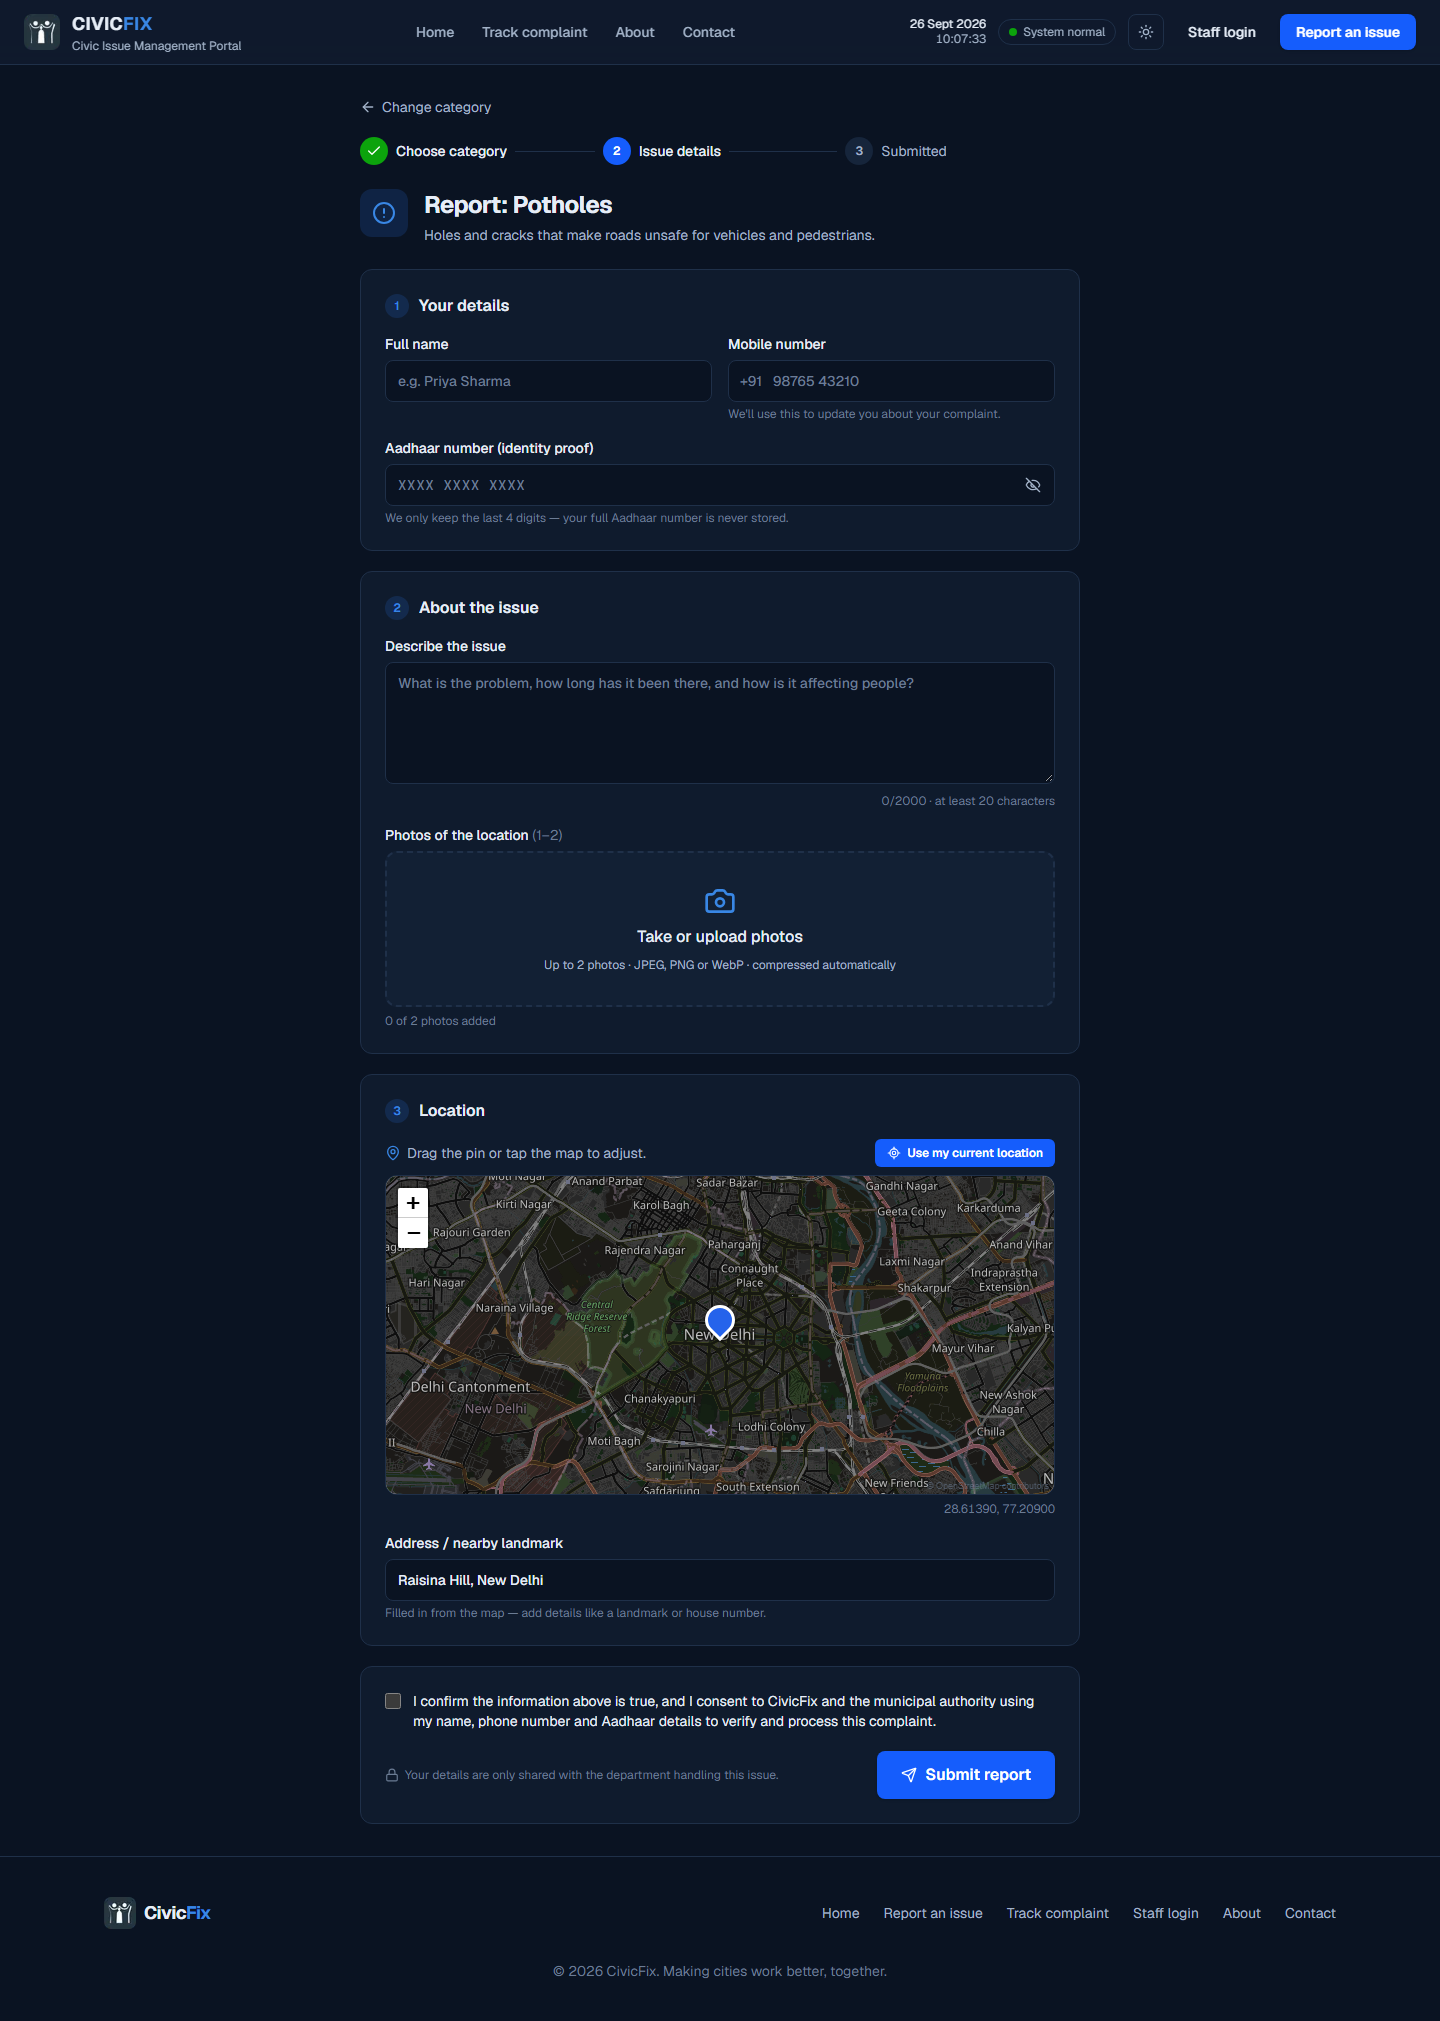
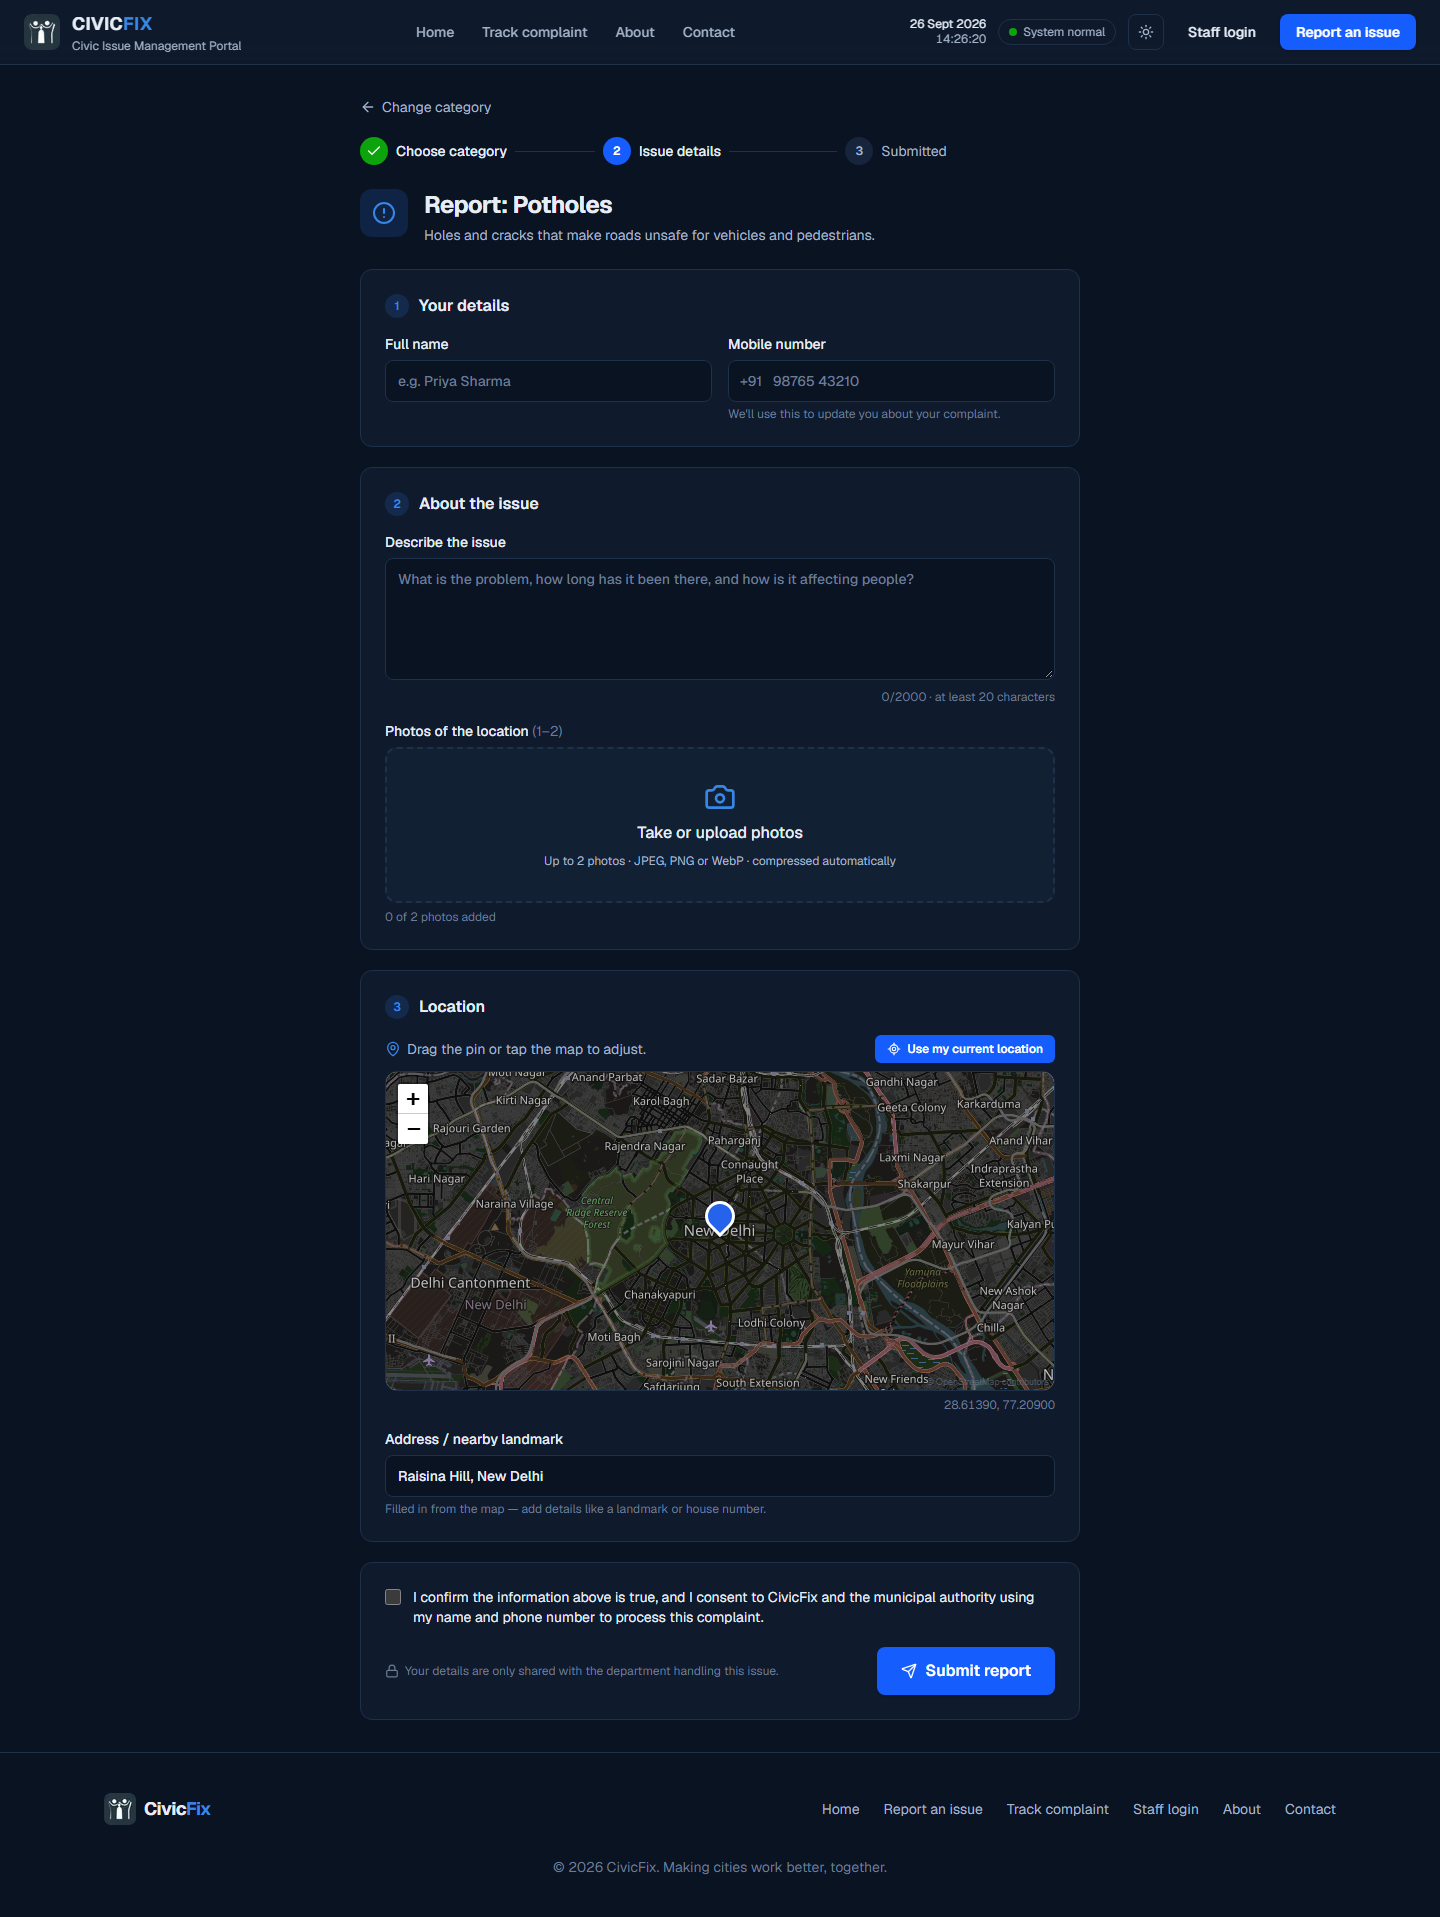
Remove Aadhaar field from the report form and staff view

diff --git a/src/components/report/ReportForm.tsx b/src/components/report/ReportForm.tsx
@@ -1,27 +1,26 @@
 "use client";
 
-import { AlertTriangle, ArrowLeft, Eye, EyeOff, Loader2, Lock, Send } from "lucide-react";
+import { AlertTriangle, ArrowLeft, Loader2, Lock, Send } from "lucide-react";
 import Link from "next/link";
 import { useCallback, useEffect, useRef, useState, type FormEvent, type ReactNode } from "react";
 import { api, ApiError, type Category, type CreatedIssue, type Place } from "@/lib/api";
 import { CategoryIcon } from "@/lib/categories";
-import { digitsOnly, formatAadhaar, isValidAadhaar, normalizeIndianMobile } from "@/lib/validation";
+import { normalizeIndianMobile } from "@/lib/validation";
 import { LocationPicker } from "./LocationPicker";
 import type { Photo } from "./PhotoInput";
 import { MAX_REPORT_PHOTOS, PhotosInput } from "./PhotosInput";
 import { StepIndicator } from "./StepIndicator";
 import { SubmitSuccess } from "./SubmitSuccess";
 
-type FieldKey = "name" | "phone" | "aadhaar" | "description" | "photo" | "location" | "address" | "consent";
+type FieldKey = "name" | "phone" | "description" | "photo" | "location" | "address" | "consent";
 type Errors = Partial<Record<FieldKey | "category", string>>;
 
 // Order used to scroll to the first invalid field.
-const fieldOrder: FieldKey[] = ["name", "phone", "aadhaar", "description", "photo", "location", "address", "consent"];
+const fieldOrder: FieldKey[] = ["name", "phone", "description", "photo", "location", "address", "consent"];
 
 type Values = {
   name: string;
   phone: string;
-  aadhaar: string;
   description: string;
   address: string;
   photos: Photo[];
@@ -34,7 +33,6 @@ function validate(v: Values): Errors {
   const name = v.name.trim();
   if (name.length < 2 || name.length > 100) e.name = "Enter your full name.";
   if (!normalizeIndianMobile(v.phone)) e.phone = "Enter a valid 10-digit Indian mobile number.";
-  if (!isValidAadhaar(v.aadhaar)) e.aadhaar = "Enter a valid 12-digit Aadhaar number.";
   const d = v.description.trim().length;
   if (d < 20) e.description = "Please describe the issue in at least 20 characters.";
   else if (d > 2000) e.description = "Keep the description under 2000 characters.";
@@ -81,7 +79,6 @@ export function ReportForm({ slug }: { slug: string }) {
   const [values, setValues] = useState<Values>({
     name: "",
     phone: "",
-    aadhaar: "",
     description: "",
     address: "",
     photos: [],
@@ -89,7 +86,6 @@ export function ReportForm({ slug }: { slug: string }) {
     consent: false,
   });
   const [area, setArea] = useState("");
-  const [showAadhaar, setShowAadhaar] = useState(true);
   const addressTouched = useRef(false);
 
   const [errors, setErrors] = useState<Errors>({});
@@ -152,7 +148,6 @@ export function ReportForm({ slug }: { slug: string }) {
     fd.set("category", slug);
     fd.set("name", values.name.trim());
     fd.set("phone", normalizeIndianMobile(values.phone) ?? "");
-    fd.set("aadhaar", digitsOnly(values.aadhaar));
     fd.set("description", values.description.trim());
     fd.set("address", values.address.trim());
     fd.set("area", area);
@@ -261,33 +256,6 @@ export function ReportForm({ slug }: { slug: string }) {
               </div>
             </Field>
           </div>
-          <Field
-            name="aadhaar"
-            label="Aadhaar number (identity proof)"
-            hint="We only keep the last 4 digits — your full Aadhaar number is never stored."
-            error={errors.aadhaar}
-          >
-            <div className="relative">
-              <input
-                value={showAadhaar ? values.aadhaar : values.aadhaar.replace(/\d(?=.*\d{4}$)/g, "•")}
-                onChange={(e) => showAadhaar && set("aadhaar", formatAadhaar(e.target.value))}
-                readOnly={!showAadhaar}
-                className={`${inputBase} pr-11 font-mono tracking-wider ${errors.aadhaar ? "border-rose-500" : "border-line"}`}
-                placeholder="XXXX XXXX XXXX"
-                inputMode="numeric"
-                autoComplete="off"
-                maxLength={14}
-              />
-              <button
-                type="button"
-                onClick={() => setShowAadhaar((s) => !s)}
-                className="absolute right-2 top-1/2 mt-[3px] -translate-y-1/2 rounded p-1.5 text-muted hover:text-fg"
-                aria-label={showAadhaar ? "Hide Aadhaar number" : "Show Aadhaar number"}
-              >
-                {showAadhaar ? <EyeOff className="size-4" /> : <Eye className="size-4" />}
-              </button>
-            </div>
-          </Field>
         </Section>
 
         <Section step={2} title="About the issue">
@@ -341,7 +309,7 @@ export function ReportForm({ slug }: { slug: string }) {
               />
               <span>
                 I confirm the information above is true, and I consent to CivicFix and the municipal authority using my
-                name, phone number and Aadhaar details to verify and process this complaint.
+                name and phone number to process this complaint.
               </span>
             </label>
             {errors.consent && <p className="mt-1 pl-7 text-xs text-rose-500">{errors.consent}</p>}

diff --git a/src/lib/validation.ts b/src/lib/validation.ts
@@ -1,34 +1,6 @@
 // Client-side checks that mirror the backend (internal/validate). The server
 // always re-validates; these just give instant feedback.
 
-const D = [
-  [0, 1, 2, 3, 4, 5, 6, 7, 8, 9], [1, 2, 3, 4, 0, 6, 7, 8, 9, 5], [2, 3, 4, 0, 1, 7, 8, 9, 5, 6],
-  [3, 4, 0, 1, 2, 8, 9, 5, 6, 7], [4, 0, 1, 2, 3, 9, 5, 6, 7, 8], [5, 9, 8, 7, 6, 0, 4, 3, 2, 1],
-  [6, 5, 9, 8, 7, 1, 0, 4, 3, 2], [7, 6, 5, 9, 8, 2, 1, 0, 4, 3], [8, 7, 6, 5, 9, 3, 2, 1, 0, 4],
-  [9, 8, 7, 6, 5, 4, 3, 2, 1, 0],
-];
-const P = [
-  [0, 1, 2, 3, 4, 5, 6, 7, 8, 9], [1, 5, 7, 6, 2, 8, 3, 0, 9, 4], [5, 8, 0, 3, 7, 9, 6, 1, 4, 2],
-  [8, 9, 1, 6, 0, 4, 3, 5, 2, 7], [9, 4, 5, 3, 1, 2, 6, 8, 7, 0], [4, 2, 8, 6, 5, 7, 3, 9, 0, 1],
-  [2, 7, 9, 3, 8, 0, 6, 4, 1, 5], [7, 0, 4, 6, 9, 1, 3, 2, 5, 8],
-];
-
-export const digitsOnly = (s: string) => s.replace(/\D/g, "");
-
-/** 12 digits, not starting with 0/1, valid Verhoeff checksum. Format check only. */
-export function isValidAadhaar(input: string): boolean {
-  const d = digitsOnly(input);
-  if (!/^[2-9]\d{11}$/.test(d)) return false;
-  let c = 0;
-  for (let i = 0; i < d.length; i++) c = D[c][P[i % 8][Number(d[d.length - 1 - i])]];
-  return c === 0;
-}
-
-/** "234123412346" → "2341 2341 2346" (while typing too). */
-export function formatAadhaar(input: string): string {
-  return digitsOnly(input).slice(0, 12).replace(/(\d{4})(?=\d)/g, "$1 ");
-}
-
 /** Accepts +91 / 0 prefixes, spaces and dashes. Returns the 10 digits or null. */
 export function normalizeIndianMobile(input: string): string | null {
   const m = input.replace(/[\s\-()]/g, "").match(/^(?:\+?91|0)?([6-9]\d{9})$/);

diff --git a/src/components/staff/IssueDetailView.tsx b/src/components/staff/IssueDetailView.tsx
@@ -1,6 +1,6 @@
 "use client";
 
-import { AlarmClock, ArrowLeft, Building2, Calendar, Fingerprint, MapPin, Phone, Tag, UserRound } from "lucide-react";
+import { AlarmClock, ArrowLeft, Building2, Calendar, MapPin, Phone, Tag, UserRound } from "lucide-react";
 import Link from "next/link";
 import type { ReactNode } from "react";
 import { MiniMap } from "@/components/ui/MiniMap";
@@ -142,9 +142,6 @@ export function IssueDetailView({ id, role }: { id: number; role: Role }) {
                     +91 {issue.reporter.phone}
                   </a>
                 </Row>
-              )}
-              {issue.reporter.aadhaarLast4 && (
-                <Row icon={<Fingerprint className="size-4" />} label="Aadhaar">XXXX XXXX {issue.reporter.aadhaarLast4}</Row>
               )}
             </section>
           )}

diff --git a/src/lib/api.ts b/src/lib/api.ts
@@ -139,6 +139,6 @@ export const api = {
   sendContact: (input: ContactInput) =>
     request<{ id: number; message: string }>("/api/contact", { method: "POST", body: JSON.stringify(input) }),
   categories: () => request<Category[]>("/api/categories"),
-  /** Multipart form: category, name, phone, aadhaar, description, address, area, lat, lng, consent, photo. */
+  /** Multipart form: category, name, phone, description, address, area, lat, lng, consent, photo. */
   submitIssue: (form: FormData) => request<CreatedIssue>("/api/issues", { method: "POST", body: form }),
 };

diff --git a/src/components/landing/ReportIssue.tsx b/src/components/landing/ReportIssue.tsx
@@ -64,7 +64,7 @@ export function ReportIssue() {
           >
             Report an issue <ArrowRight className="size-4" />
           </Link>
-          <p className="text-sm text-blue-50">No account needed — just your name, mobile number and Aadhaar for verification.</p>
+          <p className="text-sm text-blue-50">No account needed — just your name and mobile number.</p>
         </div>
       </div>
     </section>

diff --git a/src/lib/staff-api.ts b/src/lib/staff-api.ts
@@ -60,7 +60,7 @@ export type IssueDetail = StaffIssue & {
   startedAt: string | null;
   resolvedAt: string | null;
   rejectionReason: string | null;
-  reporter: { name: string | null; phone: string | null; aadhaarLast4: string | null } | null;
+  reporter: { name: string | null; phone: string | null } | null;
   photos: Photo[];
   events: IssueEvent[];
 };

diff --git a/README.md b/README.md
@@ -64,7 +64,7 @@ The backend runs on Render with a Neon database (see the [backend README](https:
 | Route | Page |
 |---|---|
 | `/` | Landing page: map of all issues (centred on your location) and dashboard statistics with a **dashboard filter: area + radius (15 km default), status, category, time** — the filter changes the statistics only, not the map (area remembered per browser); report/track entry points, officials' messages, contact |
-| `/report` → `/report/[category]` | Report an issue: choose category → details, **up to 2 photos**, map pin, Aadhaar → tracking ID |
+| `/report` → `/report/[category]` | Report an issue: choose category → details, **up to 2 photos**, map pin → tracking ID |
 | `/track` | Track a complaint with tracking ID + mobile number: progress, timeline, before/after photos |
 
 **Staff** (sign in at `/login`)
